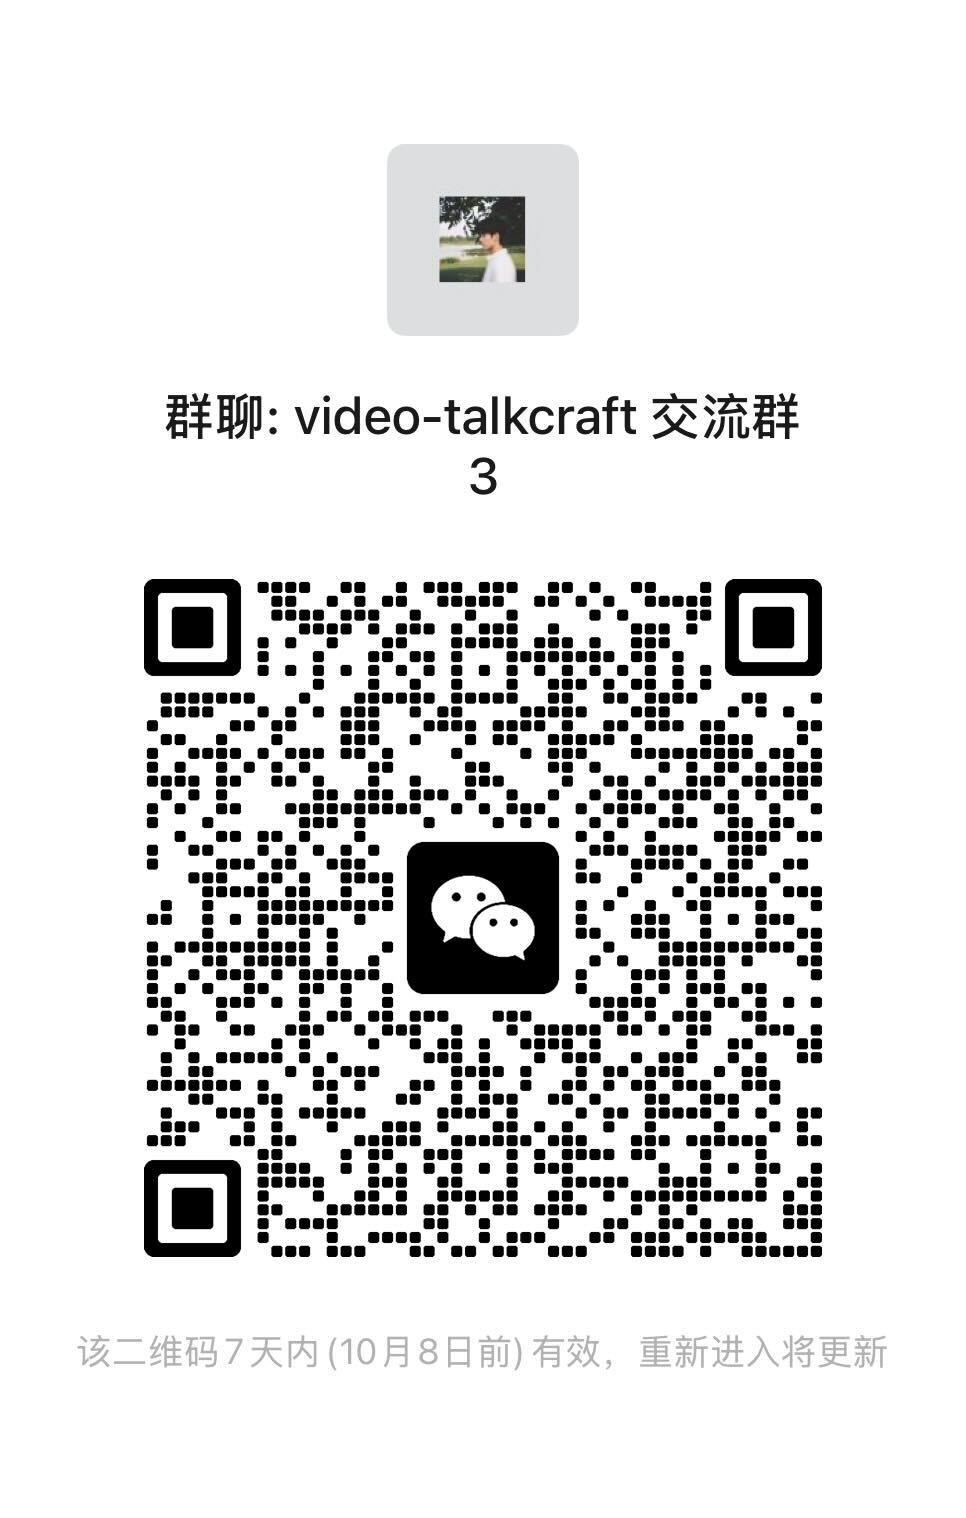
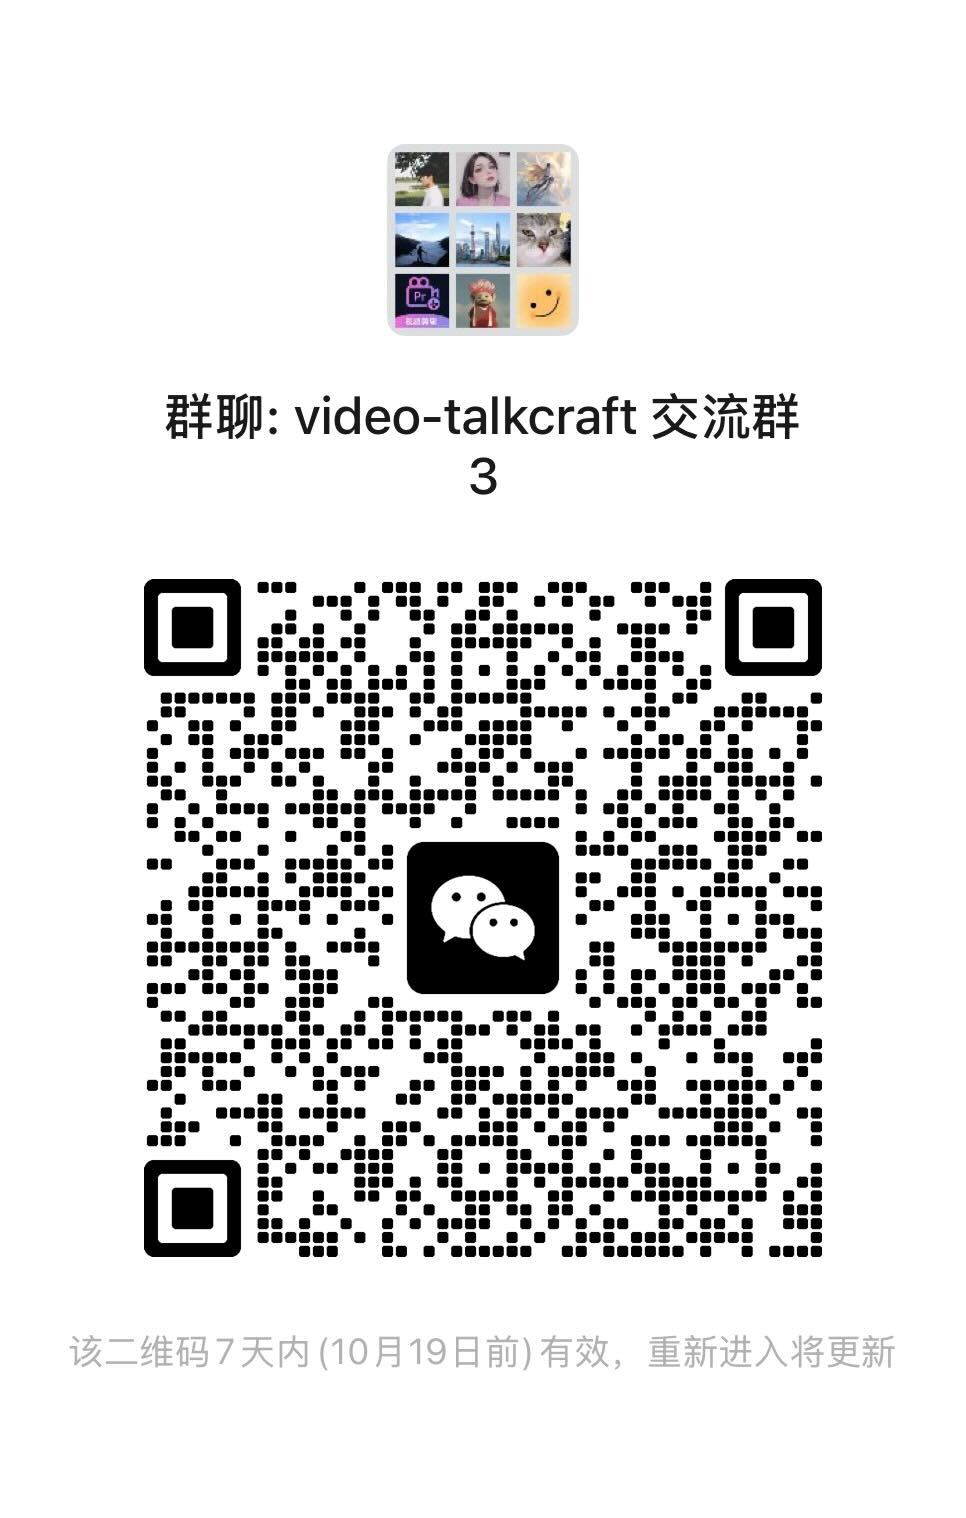
Update WeChat group QR code for October 12

diff --git a/README.md b/README.md
@@ -279,4 +279,4 @@ agent 读方法论、选动效配方卡、写 [Remotion](https://www.remotion.de
 
 <img src="assets/wechat-group.jpg" alt="video-talkcraft 微信交流群二维码" width="300">
 
-二维码更新于 2026-10-01，过期后会不定期更新；也可通过上方社媒直接联系作者。
+二维码更新于 2026-10-12，2026-10-19 前有效；过期后会不定期更新，也可通过上方社媒直接联系作者。
